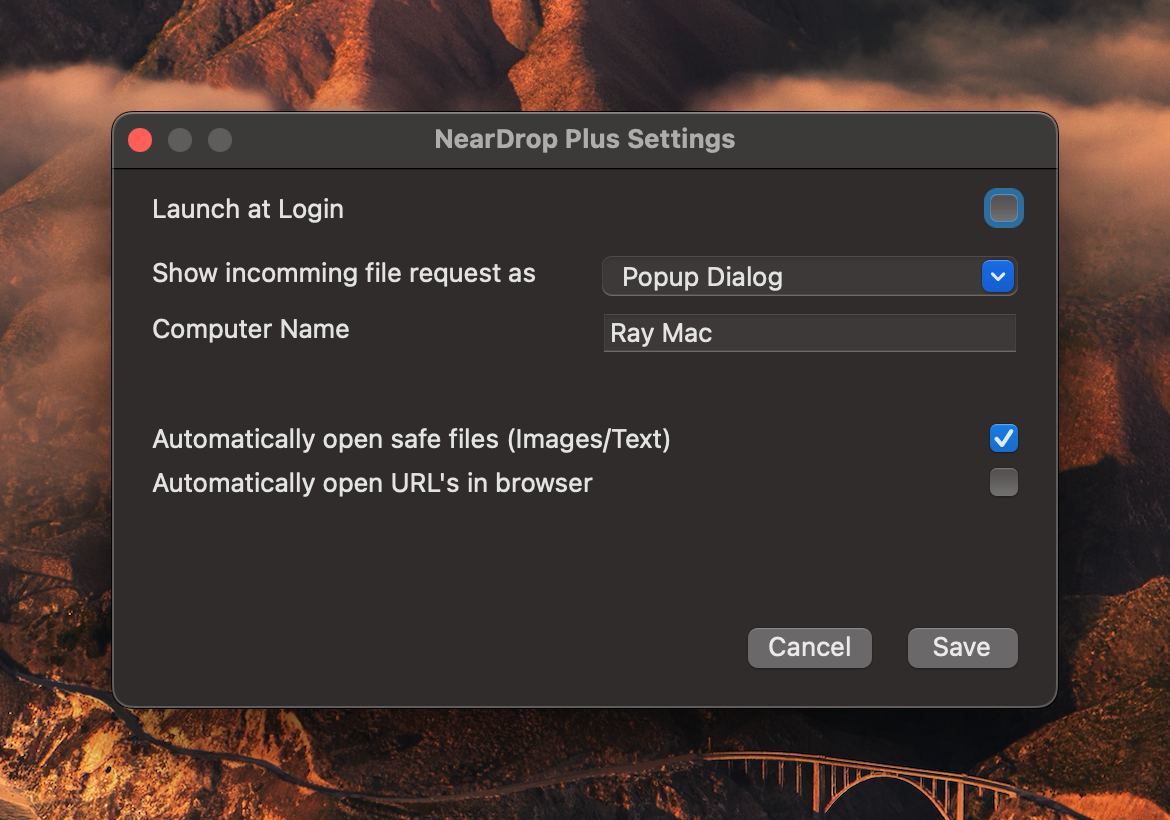
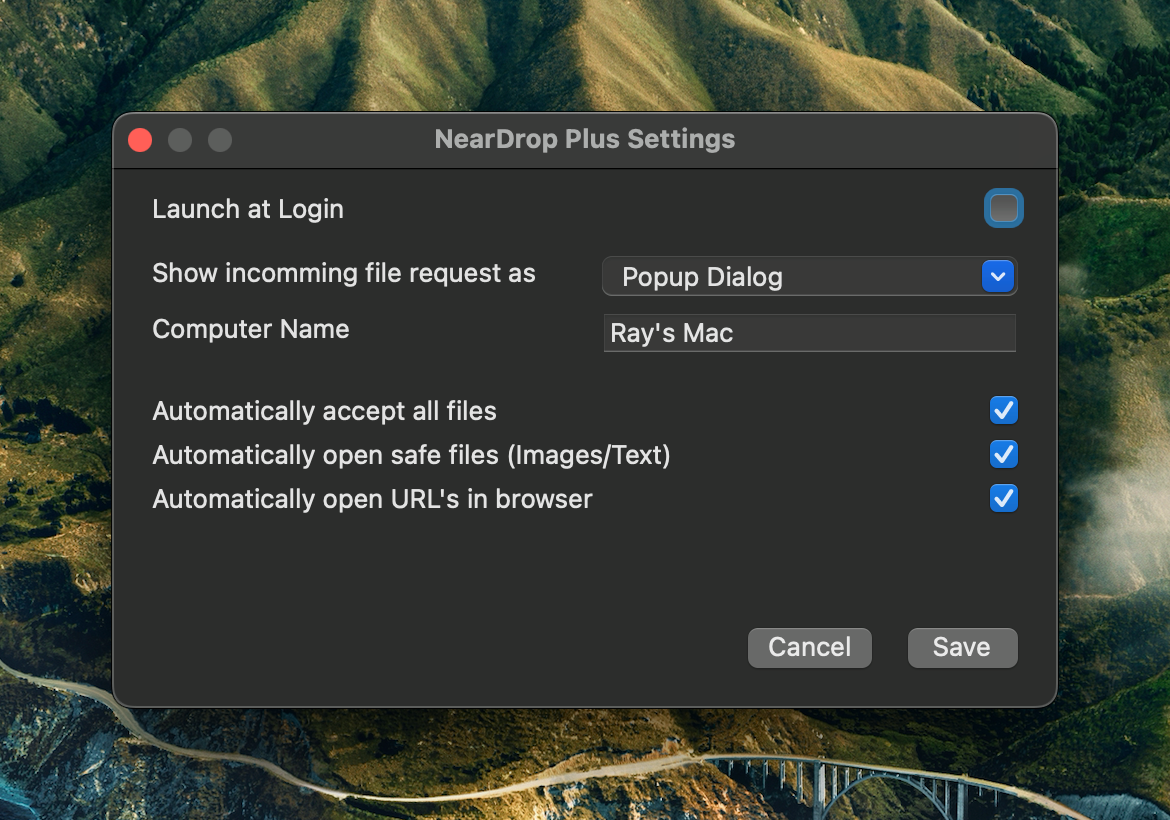
Auto accept files option has been added

diff --git a/NearDrop/Helpers/AppSettings.swift b/NearDrop/Helpers/AppSettings.swift
@@ -11,6 +11,7 @@ class AppSettings: NSObject {
     private let ComputerNameKey = "ComputerName"
     private let AutoOpenSafeFilesKey = "AutoOpenSafeFiles"
     private let OpenURLInBrowserKey = "OpenURLInBrowser"
+    private let AutoAcceptFilesKey = "AutoAcceptFiles"
     
     static let sharedInstance: AppSettings = AppSettings()
     
@@ -18,6 +19,7 @@ class AppSettings: NSObject {
     var IncommingTransferAlertType : Int = 0
     var AutoOpenSafeFiles : Bool = false
     var OpenURLInBrowser : Bool = false
+    var AutoAcceptFiles : Bool = false
     
     fileprivate override init() {
         super.init()
@@ -32,6 +34,7 @@ class AppSettings: NSObject {
             IncommingTransferAlertType = prefs.integer(forKey: IncommingTransferAlertTypeKey)
         }
         
+        AutoAcceptFiles = prefs.object(forKey: AutoAcceptFilesKey) as? Bool ?? false
         AutoOpenSafeFiles = prefs.object(forKey: AutoOpenSafeFilesKey) as? Bool ?? false
         OpenURLInBrowser = prefs.object(forKey: OpenURLInBrowserKey) as? Bool ?? false
         ComputerName = prefs.string(forKey: ComputerNameKey) ?? Host.current().localizedName!
@@ -45,6 +48,7 @@ class AppSettings: NSObject {
         prefs.set(ComputerName, forKey: ComputerNameKey)
         prefs.set(AutoOpenSafeFiles, forKey: AutoOpenSafeFilesKey)
         prefs.set(OpenURLInBrowser, forKey: OpenURLInBrowserKey)
+        prefs.set(AutoAcceptFiles, forKey: AutoAcceptFilesKey)
     }
   
 }

diff --git a/NearDrop/InboundNearbyConnection.swift b/NearDrop/InboundNearbyConnection.swift
@@ -327,7 +327,11 @@ class InboundNearbyConnection: NearbyConnection{
                 if case .text = metadata {
                     self.acceptTransfer()
                 } else {
-                    self.delegate?.obtainUserConsentWithAlert(for: metadata, from: self.remoteDeviceInfo!, connection: self)
+                    if AppSettings.sharedInstance.AutoAcceptFiles {
+                        self.acceptTransfer()
+                    } else {
+                        self.delegate?.obtainUserConsentWithAlert(for: metadata, from: self.remoteDeviceInfo!, connection: self)
+                    }
                 }
                 //        if case .text = metadata, Preferences.copyToClipboardWithoutConsent{
                 //                self.acceptTransfer()
@@ -339,7 +343,11 @@ class InboundNearbyConnection: NearbyConnection{
                 //        }
                 
             } else {
-                self.delegate?.obtainUserConsent(for: metadata, from: self.remoteDeviceInfo!, connection: self)
+                if AppSettings.sharedInstance.AutoAcceptFiles {
+                    self.acceptTransfer()
+                } else {
+                    self.delegate?.obtainUserConsent(for: metadata, from: self.remoteDeviceInfo!, connection: self)
+                }
             }
         }
         

diff --git a/NearDrop/ViewControllers/PreferencesViewController.swift b/NearDrop/ViewControllers/PreferencesViewController.swift
@@ -20,6 +20,7 @@ class PreferencesViewController: NSViewController {
     @IBOutlet weak var cbLaunchAtLogin: NSButton!
     @IBOutlet weak var cbAutoOpenFiles: NSButton!
     @IBOutlet weak var cbAutoOpenURL: NSButton!
+    @IBOutlet weak var cbAutoAcceptFiles: NSButton!
     
     override func viewDidLoad() {
         super.viewDidLoad()
@@ -30,6 +31,7 @@ class PreferencesViewController: NSViewController {
         cbLaunchAtLogin.state = (LaunchAtLogin.isEnabled) ? .on : .off
         cbAutoOpenFiles.state = settings.AutoOpenSafeFiles ? .on : .off
         cbAutoOpenURL.state = settings.OpenURLInBrowser ? .on : .off
+        cbAutoAcceptFiles.state = settings.AutoAcceptFiles ? .on : .off
     }
    
     @IBAction func onCancel(_ sender: Any) {
@@ -54,6 +56,7 @@ class PreferencesViewController: NSViewController {
         LaunchAtLogin.isEnabled = cbLaunchAtLogin.state == .on
         settings.AutoOpenSafeFiles = cbAutoOpenFiles.state == .on
         settings.OpenURLInBrowser = cbAutoOpenURL.state == .on
+        settings.AutoAcceptFiles = cbAutoAcceptFiles.state == .on
         settings.IncommingTransferAlertType = cbAlertType.indexOfSelectedItem
         
         if (settings.ComputerName != newName) {

diff --git a/NearDrop/NearbyConnectionManager.swift b/NearDrop/NearbyConnectionManager.swift
@@ -109,8 +109,6 @@ class NearbyConnectionManager : NSObject, NetServiceDelegate, InboundNearbyConne
     }
     
     func obtainUserConsentWithAlert(for transfer: TransferMetadata, from device: RemoteDeviceInfo, connection: InboundNearbyConnection) {
-        
-        
         switch transfer {
         case .text :
             activeConnections[connection.id]?.submitUserConsent(accepted: true)
